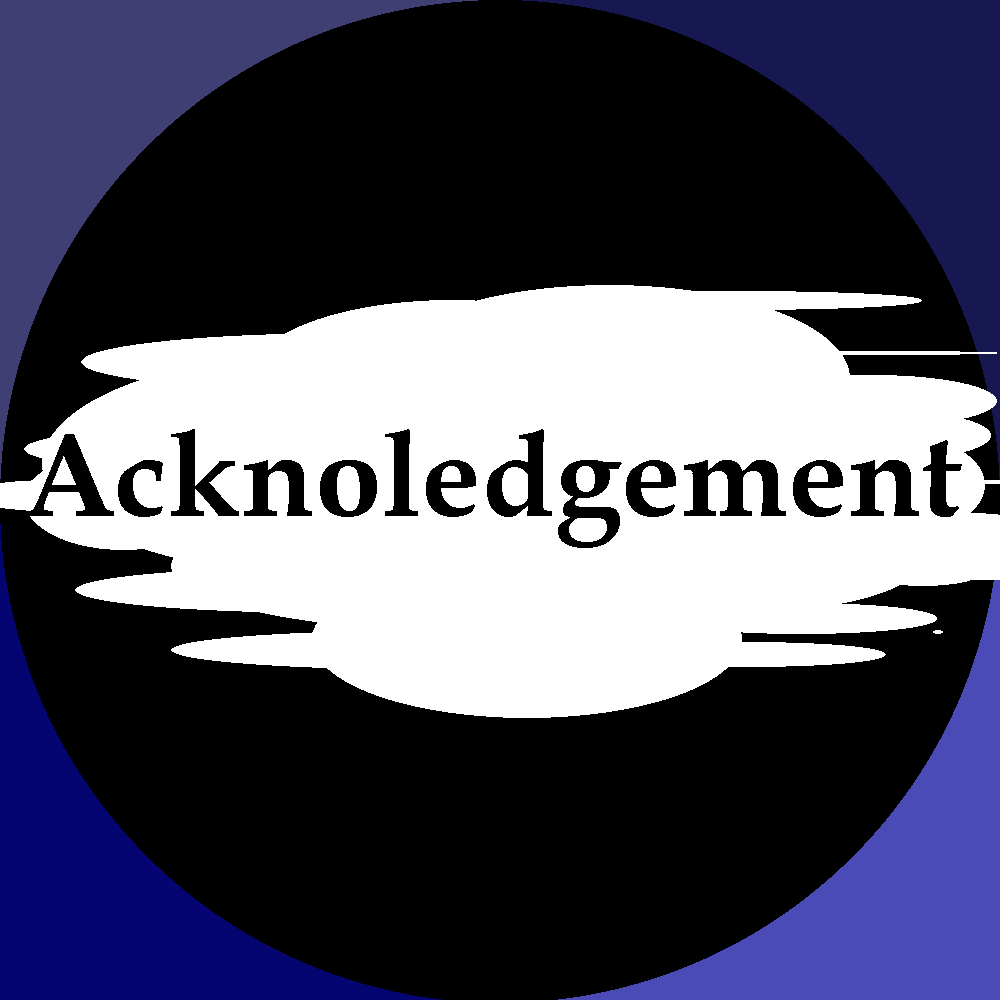
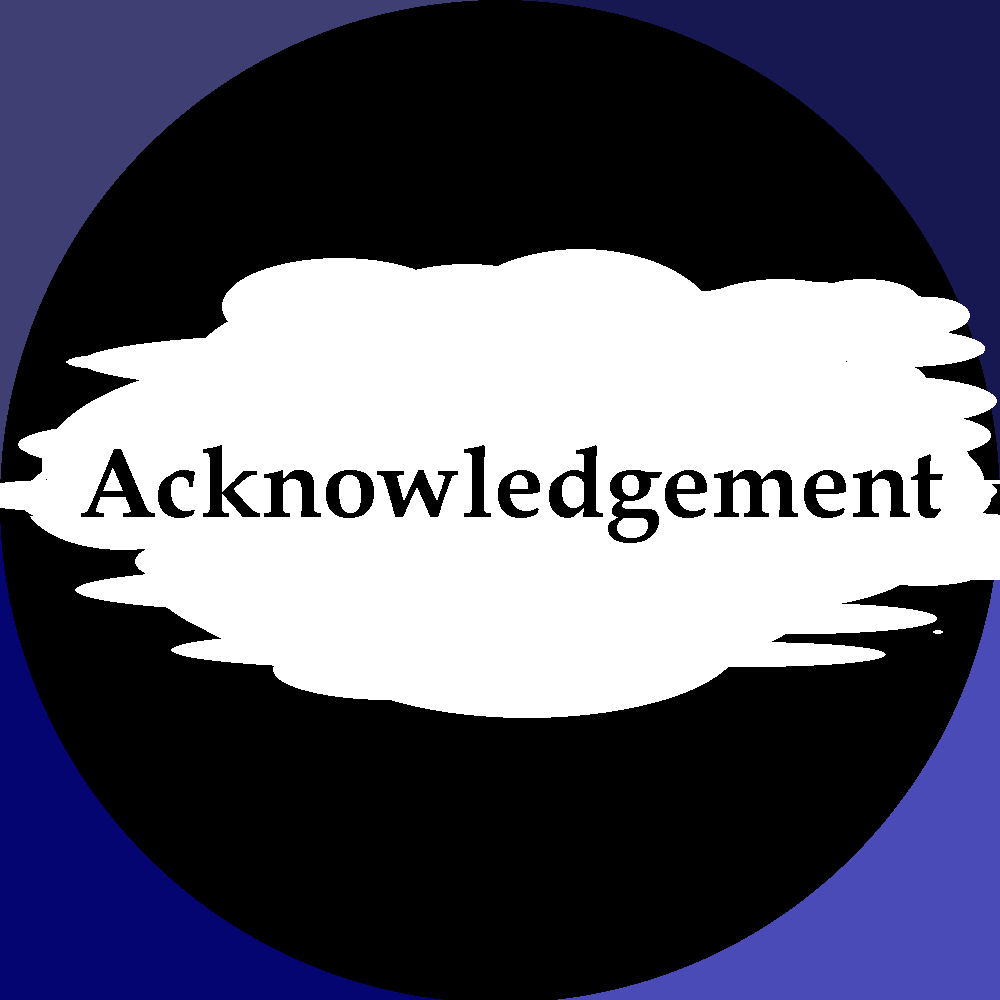
read me updated

diff --git a/templates/acknowledgement_page.html b/templates/acknowledgement_page.html
@@ -7,7 +7,7 @@
     <!-- Page Content -->
     <div class="title-container">
         <div class="inner-title">
-            <h1 class="page-title">acknowledgement</h1>
+            <h1 class="page-title">Acknowledgement</h1>
         </div>
     </div>
 

diff --git a/templates/startpage.html b/templates/startpage.html
@@ -45,6 +45,6 @@
     </script>
 </head>
 <body>
-    <p><a href="http://127.0.0.1:5000" target="_blank" class="big-button">Go FQ VSearch</a></p>
+    <p><a href="http://127.0.0.1:5000" target="_blank" class="big-button">Go EZDMS</a></p>
 </body>
 </html>

diff --git a/EZDMS.py b/EZDMS.py
@@ -111,6 +111,10 @@ def start_flask():
 		# Render a custom error page for invalid input
 		return render_template('error.html', message=str(error)), 400
 
+	@app.route('/acknowledgement')
+	def acknowledgement():
+		# This can be a page where users can download files
+		return render_template('acknowledgement_page.html')
 	
 	@app.route('/contact')
 	def contact():
@@ -204,7 +208,7 @@ def start_flask():
 
 def start_gui():
     # Start the webview window after Flask is started.
-    webview.create_window("FQ Search", 'http://127.0.0.1:5000/startpage', js_api=JSAPI(), width=200, height=200)
+    webview.create_window("EZDMS", 'http://127.0.0.1:5000/startpage', js_api=JSAPI(), width=200, height=200)
     webview.start()
 
 if __name__ == '__main__':

diff --git a/README.md b/README.md
@@ -1,118 +1,78 @@
+# EZDMS 
+
+EZDMS is a python-based GUI to help in preforming ressearch mutated plasmid libraries. 
+
+## Installation 
+
+you can download the this package from git hub (https://github.com/haimlab/EZDMS)
+ 
 Requirements: 
-
-Python >= 3.7 
-
- small change
-
-This code searches for variable sites within fastq files and returns the frequency of each combination of amino acids from all variable sites within each sequence. 
-
-Inputs: 
-
--fasta: The path to a reference fasta file that should contain the complete nucleotide sequence. The expected variable sites must be marked in this file as any non standard nucleotide including N,X,-,?. Anything in the fasta Sequence that is not an A,C,T,G will be detected as a variable site. 
-
--fastq: The path to the fastq file to be analyzed.  
-
-This function will take in a single dna sequence in fasta format and return the begging site and end site in a variable region.  
-
-Command line options: 
-
--h, --help show this help message and exit 
-
--o OUTPUT, --output OUTPUT 
-
-Path to the output file: default="output" 
-
--p PHREAD, --phread PHREAD 
-
-Threshold value to filliter phread score: default=20 
-
--5 FIVE_PRIME, --five_prime FIVE_PRIME 
-
-distance from variability sites to the 5-prime end of the required match: default=8 
-
--3 THREE_PRIME, --three_prime THREE_PRIME 
-
-distance from variability sites to the 3-prime end of the required match: default=8 
-
--v VARIABLE, --variable VARIABLE 
-
-number of variable sites: default=2 
-
+ 
+**Python >= 3.7** 
+ 
+**webview**
+ 
+**Flask**
+ 
+**flask_cors** 
+ 
+**requests**
+ 
+Before running the code, you will need to install the requirements of EZDMS. If you do not have these libraires you can install them using the pip commands bellow. 
  
 
+```bash
+    pip install pywebview
+    pip install Flask 
+    pip install flask_cors  
+    pip install requests 
+```
+
+## Running
+
+To run EZDMS after use: 
+```bash 
+Python EZDMS.py 
+``` 
  
+This will open the GUI program. 
 
- To measure how the selective pressure from Temsavir affects amino acid preference in HIV Env, AD8 plasmids were mutated to contain variable sites at site 375 and 426. These sites were chosen due to their high rate of mutation in response to Temsavir. Overlap PCR was used to generate the two NNK sites, and a homologous barcode sequence was inserted to differentiate WT plasmids from Mutant plasmids. The resulting mutant plasmid library was sequenced using Oxford nano pore technology to generate a fastq file. The fastq library was interpreted using EZDMS Amino Count tool which matches the nucleotides flanking a variable site in barcoded sequences to confirm an even distribution of amino acids at the expected NNK sites.  
+![title](static/EZDMS_START_PAGE_SCREEN_SHOT.png)
 
-293 T Cells were transformed using mutant plasmid library to act as a source of HIV virions. These virions are produced from multiple plasmids and cannot be used to test the fitness of any induvial plasmid strain but were sequence and analyzed with EZDMS Amino ACID count to ensure there was an adequate number of mutant plasmids with evenly distributed amino acids. The first round of transfection has an even distribution of amino acids as multiple plasmids are in each cell allowing unfit genes to be passed on in fit capsids.  
+You can exit the program by closing this window. 
 
-Round two of transfection was performed with a Low MOI viral passage was on A3R5.7 T-cells to dilute the plasmid so that each cell would only being infected once. Each cell only being infected once the produced capsid should match the genotype, they contain allowing for selective pressures to eliminate unfit mutations. Four days after infection the HIV RNA was extracted and sequenced with Oxford nano pore technology.  
-
-Amino Acid Preferences are then calculated using EZDMS utilizing the fastq sequences from round 1 as the preselection library and the fastq sequences from round 2 as the post selection library section library. The Enrichment Ratio  
-𝜑𝑝
-𝜑
-p
+You can move to the main page of the program by pressing the Go EZDMS button. 
  
- for amino acid ‘
-𝑦 
-y
+![title](static/Main_page_screen_shot.png) 
  
- 
-’ and a wildtype amino acid of ‘
-𝑤𝑡 
-w
-t
- 
- 
-’ is calculated as the ratio of ‘
-𝑦𝑚
-y
-m
- 
-’ to ‘
-𝑤𝑡𝑚
-w
-t
-m
- 
-’ after infection divided by the ratio of ‘
-𝑦𝑝
-y
-p
- 
-’ to ‘
-𝑤𝑡𝑝
-w
-t
-p
- 
-’ before infection.  
+This page links to all the tools on EZDMS just click on any of the icons or use the navigation bat in the top right. 
 
-The Enrichment Ratio for an amino acid at a single site is rescaled to one based on the sum of all Enrichment Ratios to generate the amino acid preference 
-𝜋𝑦
-𝜋
-y
- 
-.  
+![title](static/Nav_bar_picture.png)
 
- 
+## Variable Sites Finder
 
- 
+he primary tool of EZDMS is Variable Site Finder, which counts each mutant amino acid detected in a plasmid library. The program matches the nucleotides flanking a variable site in the library to identify the mutant amino acid. Multiple variable sites can be searched at once to count all detected amino acid combinations between variable sites. Barcode sequences can be added so each count is based only on sequences containing the specific barcode. This can be used to separate out counts from contaminated sequences from the intended library plasmid counts. This tool takes two files as inputs, a fasta reference that have the variable sites codons labeled with the nonstandard nucleotides and the fastq plasmid library. The output of the program is an excel sheet with a page for each barcode sequence and a dictionary on each page for all the amino acid combinations with the counts detected in the library.   
 
- 
+![title](static/Variable_Sites_Finder_screen_shot.png)
 
-usage: find_variable_sites.py [-h] [-o OUTPUT] [-p PHREAD] [-5 FIVE_PRIME] [-3 THREE_PRIME] [-v VARIABLE] fasta fastq 
+## Amino Acid Preferences
 
-Example command line: 
+Amino Acid Preferences is a tool to calculate the relative selective pressures for each amino acid a variable site might adopt. The program is based on the equation for the naive approach to Enrichment Ratio from dms_tools.1 The Enrichment Ratio for amino acid ‘y’ and a wild type amino acid of ‘WT’ is calculated as the ratio of ‘y’ to ‘WT’ after infection divided by the ratio of ‘y’ to ‘WT’ before infection. The Enrichment Ratio for all amino acids at a site are then rescaled to one for the final output of amino acid preferences at that site. This tool takes three files as inputs a fasta reference with variable sites codons labeled with the nonstandard nucleotides and two fastq libraires of the sequenced plasmids, the preselection libraries and the libraries sequenced after infection. The output file is a CSV file that has the preference for each amino acid labeled.   
 
-python find_variable_sites.py Ref_375X BNKWKD_3_Library_375X.fastq -o "out.txt" -p 20 -5 8 -3 8 -v 2 
+![title](static/Variable_Sites_Finder_screen_shot.png)
 
-. .venv/bin/activate
+## Build Primer
 
- pyinstaller --onefile --windowed --add-data "templates/index.html:templates" --add-data "templates/preference.html:templates" app.py
+The final function is a basic primer template generator to create a single NNK site in a plasmid fragment. The code identifies the longest primer to be constructed to produce the NNK site with appropriate ending nucleotides and identifies all palindromic sites in a primer that could lead to self-binding. The input for this file is a fasta reference sequence for the plasmid fragment with an NNk site labeled at the codon to be mutated. The output of the tool is a text file with the 2 forward and 2 reveres primers labeled with their length and an index of all sites that are potently problematic within each primer. 
 
- pyinstaller --onefile --add-data "templates/:templates" app.py
+![title](static/Build_primer_screenshot.png)
 
- pyinstaller --onefile --add-data "templates:templates"  --add-data "modules:modules" app.py 
+## Run Modules
 
- pyinstaller --onefile --windowed --add-data "templates:templates" --icon=FGV.icns app.py 
+find_variable_sites command lines:
+
+usage: find_variable_sites.py [-h] [-o OUTPUT] [-p PHREAD] [-5 FIVE_PRIME] [-3 THREE_PRIME] [-v VARIABLE] fasta fastq
+
+Example command line:
+
+python find_variable_sites.py Ref_375X BNKWKD_3_Library_375X.fastq -o "out.txt" -p 20 -5 8 -3 8 -v 2
